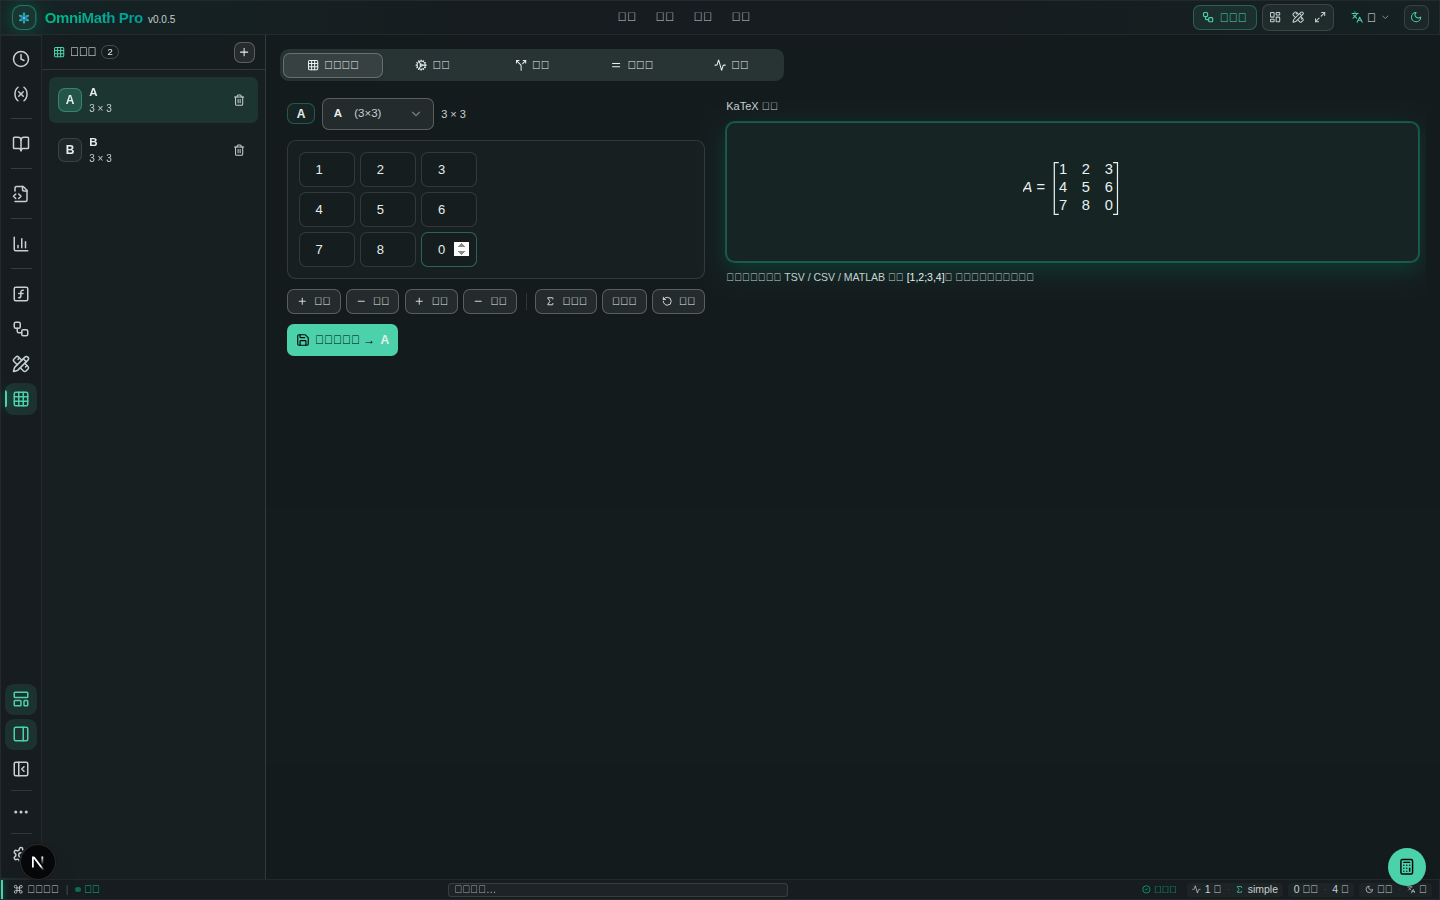
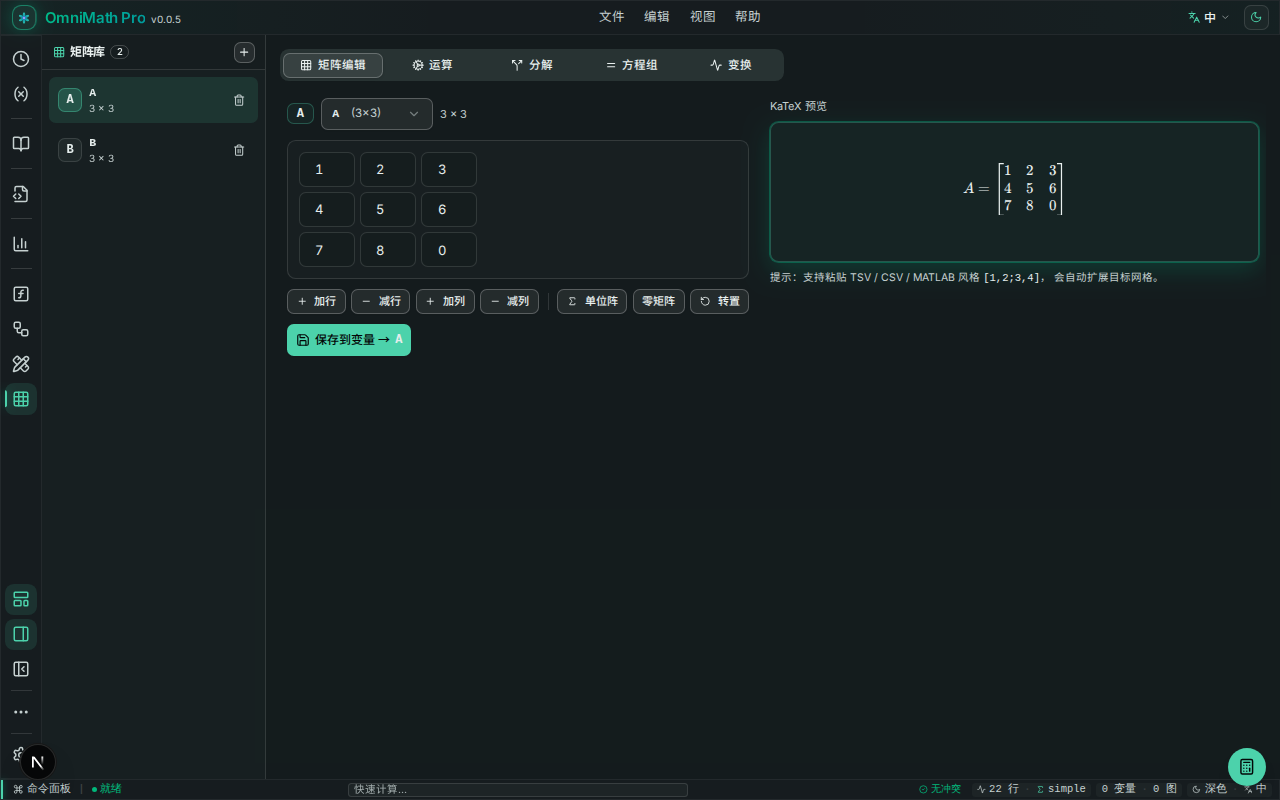
feat: AI 助手核心功能重构与优化

diff --git a/README.md b/README.md
@@ -33,6 +33,22 @@
 
 ![工作台主页](./public/screenshots/workbench.png)
 
+### 浮动计算器（基础模式）
+
+![浮动计算器 - 基础模式](./public/screenshots/calculator-basic.png)
+
+### 浮动计算器（便签面板）
+
+![浮动计算器 - 便签面板](./public/screenshots/calculator-notepad.png)
+
+### 浮动计算器（科学模式）
+
+![浮动计算器 - 科学模式](./public/screenshots/calculator-scientific.png)
+
+### 浮动计算器（单位换算）
+
+![浮动计算器 - 单位换算](./public/screenshots/calculator-converter.png)
+
 ### 2D 函数绘图
 
 ![2D 函数绘图](./public/screenshots/plot2d.png)
@@ -45,9 +61,13 @@
 
 ![线性代数求解](./public/screenshots/linear-algebra.png)
 
-### 浮动计算器
+### Pipeline 节点工作流
 
-![浮动计算器](./public/screenshots/calculator.png)
+![Pipeline 节点工作流](./public/screenshots/pipeline.png)
+
+### 求解器工作台
+
+![求解器工作台](./public/screenshots/solver.png)
 
 ### 设置面板
 
@@ -116,8 +136,10 @@
 ### 浮动计算器
 
 - `Ctrl/Cmd + Shift + C` 快速调出便携式计算器
-- 三种模式：基础计算、科学计算、单位换算
+- **五种模式**：基础计算、科学计算、程序员模式（HEX/DEC/OCT/BIN）、线性代数（矩阵行列式/逆/转置/特征值）、单位换算
 - 支持长度、重量、温度、面积、体积、时间单位转换
+- **便签面板**：点击侧边便签图标展开草稿区，可随时记录数据与中间结果，内容持久化保存，刷新后不丢失
+- **历史回填**：点击历史记录中的任意条目，自动回填到计算输入区继续计算
 - 可拖拽、可固定、可复制结果
 
 ### 节点式工作流（Pipeline）
@@ -129,6 +151,8 @@
 ### 界面与体验
 
 - **VSCode 风格布局**：ActivityBar / SidePanel / Editor / Preview / StatusBar
+- **窗口控制按钮**：自定义标题栏右侧提供最小化、最大化/还原、关闭三按钮（仅 Tauri 桌面壳内显示），关闭按钮 hover 红色高亮
+- **精简顶部栏**：视图切换入口统一收敛至 ActivityBar，标题栏不再出现重复按钮，减少视觉噪音
 - **任务栏**：支持左右切换、锁定/解锁、自动隐藏、手动隐藏
 - **面板显隐**：编辑器、预览区、侧边栏、任务栏均可独立显示/隐藏，状态自动记忆
 - **深色 / 浅色主题**：高对比度配色，符合 WCAG 可读性标准，深色主题采用分层表面设计（background / card / popover 三级递进）
@@ -136,7 +160,7 @@
 - **命令面板**：`Ctrl/Cmd + Shift + P` 快速执行命令
 - **设置面板**：7 大分类（外观/编辑器/布局/导出/语言/快捷键/关于），自动检查更新，托盘最小化
 - **结构化高级设置**：高级区由 JSON 文本编辑改为表单控件（数字输入 / 开关 / 下拉），修改即时生效与持久化，非法输入就地提示且不写入
-- **字体排印优化**：全局字体栈补充中文回退（Noto Sans SC / PingFang SC / 微软雅黑等），canvas 刻度与标注统一字体并启用等宽数字（tabular-nums）
+- **自托管字体**：Inter、Noto Sans SC、STIX Two Math 字体随应用本地分发（woff2），不依赖系统预装字体，无 CJK 字体的环境也能正常显示中英文，完全离线可用
 - **统一过渡动画**：视图与面板切换使用轻量 transform/opacity 过渡（150–250ms），优先 CSS 过渡，不引入重型动画依赖
 - **无障碍**：支持 `prefers-reduced-motion` 系统偏好
 - **状态栏分组**：右侧信息按逻辑分组（编辑器信息 / 数据信息 / 偏好设置），药丸式圆角分组替代密集竖线分隔
@@ -201,7 +225,9 @@ omnimath-pro/
 │   ├── capabilities/           # Tauri 权限配置
 │   └── tauri.conf.json         # 构建/窗口/打包配置
 ├── prisma/                     # Prisma schema（保留未来扩展）
-├── public/                     # 静态资源（logo、截图等）
+├── public/                     # 静态资源（logo、截图、自托管字体等）
+│   ├── fonts/                  # 自托管 woff2 字体（Inter / Noto Sans SC / STIX Two Math）
+│   └── screenshots/            # README 截图
 └── .github/workflows/          # 多平台自动发布工作流
 ```
 
